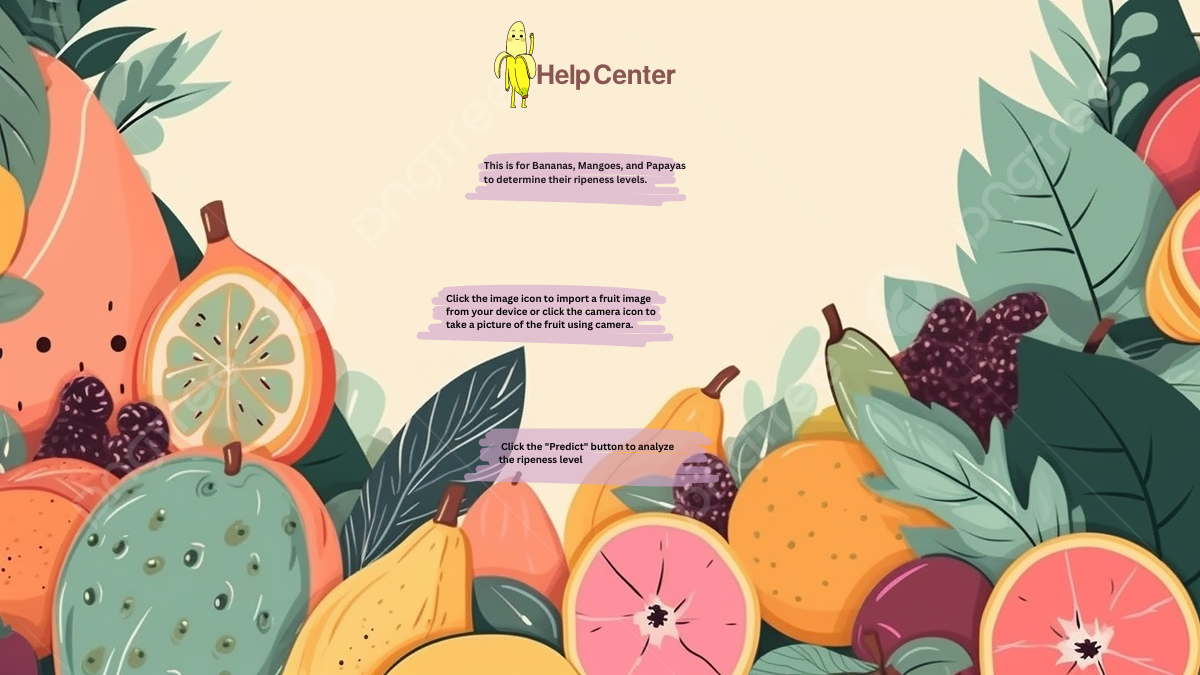
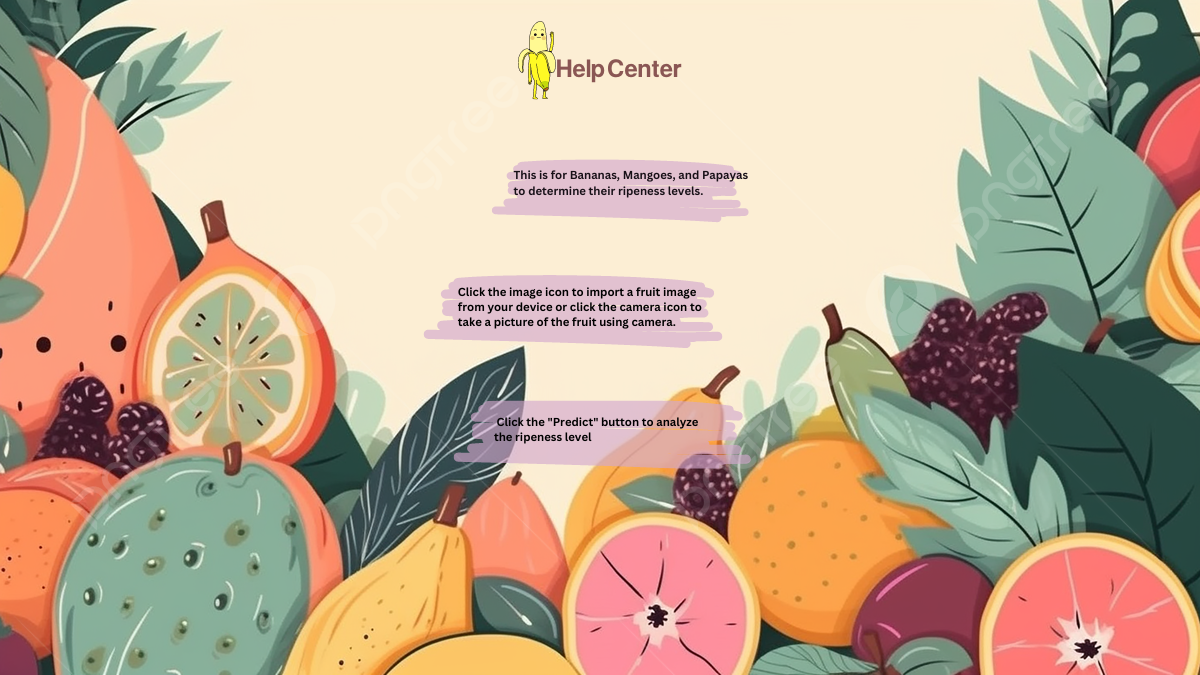
Final

diff --git a/fruit_app/lib/second_page.dart b/fruit_app/lib/second_page.dart
@@ -69,26 +69,7 @@ class _SecondPageState extends State<SecondPage> {
                   MainAxisAlignment.start, // Align to the top of the screen
               crossAxisAlignment: CrossAxisAlignment.center,
               children: <Widget>[
-                const SizedBox(height: 50), // Add some space at the top
-                // Container with border around the text
-                Container(
-                  padding: const EdgeInsets.all(10),
-                  decoration: BoxDecoration(
-                    border: Border.all(
-                        color: const Color.fromARGB(255, 206, 99, 225),
-                        width: 2),
-                    borderRadius: BorderRadius.circular(50),
-                  ),
-                  child: const Text(
-                    'Add your fruit image',
-                    style: TextStyle(
-                      fontSize: 20,
-                      fontWeight: FontWeight.bold,
-                      color: Color.fromARGB(
-                          255, 81, 0, 96), // Set the font color to white
-                    ),
-                  ),
-                ),
+                const SizedBox(height: 80), // Add some space at the top
                 const SizedBox(height: 50),
                 // Display selected or default image (unchanged)
                 _selectedImage != null
@@ -100,11 +81,11 @@ class _SecondPageState extends State<SecondPage> {
                       )
                     : Image.asset(
                         'assets/default.png',
-                        width: 150,
-                        height: 150,
+                        width: 250,
+                        height: 250,
                         fit: BoxFit.cover,
                       ),
-                const SizedBox(height: 20),
+                const SizedBox(height: 50),
                 // Buttons for capturing and selecting images (unchanged)
                 Row(
                   mainAxisAlignment: MainAxisAlignment.center,
@@ -112,7 +93,7 @@ class _SecondPageState extends State<SecondPage> {
                     IconButton(
                       onPressed: _getImageFromCamera,
                       icon: const Icon(Icons.camera),
-                      iconSize: 50,
+                      iconSize:55,
                       color: Colors.white,
                     ),
                     const SizedBox(width: 50),
@@ -120,7 +101,7 @@ class _SecondPageState extends State<SecondPage> {
                     IconButton(
                       onPressed: _getImageFromGallery,
                       icon: const Icon(Icons.image),
-                      iconSize: 50,
+                      iconSize: 55,
                       color: Colors.white,
                     ),
                   ],
@@ -166,7 +147,7 @@ class _SecondPageState extends State<SecondPage> {
                   ),
                   child: const Text(
                     'Predict',
-                    style: TextStyle(fontSize: 18),
+                    style: TextStyle(fontSize: 20),
                   ),
                 ),
               ],

diff --git a/fruit_app/lib/third_page.dart b/fruit_app/lib/third_page.dart
@@ -6,12 +6,32 @@ class ThirdPage extends StatelessWidget {
   final File selectedImage;
   final String predictedClass;
 
-  const ThirdPage(
-      {Key? key, required this.selectedImage, required this.predictedClass})
-      : super(key: key);
+  const ThirdPage({
+    Key? key,
+    required this.selectedImage,
+    required this.predictedClass,
+  }) : super(key: key);
 
   @override
   Widget build(BuildContext context) {
+    Color textColor;
+
+    // Set text color based on the predicted class
+    switch (predictedClass) {
+      case 'Ripe':
+        textColor = const Color.fromARGB(255, 255, 230, 3);
+        break;
+      case 'Over Ripe':
+        textColor = const Color.fromARGB(255, 168, 64, 26);
+        break;
+      case 'Unripe':
+        textColor = const Color.fromARGB(255, 1, 171, 6);
+        break;
+      default:
+        textColor = const Color.fromARGB(255, 134, 7, 7);
+        break;
+    }
+
     return Scaffold(
       body: Stack(
         children: <Widget>[
@@ -27,14 +47,24 @@ class ThirdPage extends StatelessWidget {
               mainAxisAlignment: MainAxisAlignment.center,
               children: <Widget>[
                 Text(
-                  'This fruit is:$predictedClass',
-                  style: TextStyle(fontSize: 20),
+                  'The fruit is:',
+                  style: TextStyle(
+                    fontSize: 25,
+                    color: Colors.black, // Black color for this part
+                  ),
+                ),
+                Text(
+                  predictedClass,
+                  style: TextStyle(
+                    fontSize: 25,
+                    color: textColor, // Color determined by predicted class
+                  ),
                 ),
                 const SizedBox(height: 20),
                 Image.file(
                   selectedImage,
-                  width: 200,
-                  height: 200,
+                  width: 250,
+                  height: 250,
                   fit: BoxFit.cover,
                 ),
                 const SizedBox(height: 20),
@@ -64,4 +94,3 @@ class ThirdPage extends StatelessWidget {
     );
   }
 }
-

diff --git a/fruit_app/lib/instructions_page.dart b/fruit_app/lib/instructions_page.dart
@@ -17,7 +17,7 @@ class InstructionsPage extends StatelessWidget {
           ),
           Center(
             child: Column(
-              mainAxisAlignment: MainAxisAlignment.center,
+              mainAxisAlignment: MainAxisAlignment.end,
               children: <Widget>[
                 const SizedBox(height: 60),
                 ElevatedButton(
@@ -37,6 +37,7 @@ class InstructionsPage extends StatelessWidget {
                     style: TextStyle(fontSize: 18),
                   ),
                 ),
+                const SizedBox(height: 100),
               ],
             ),
           ),
